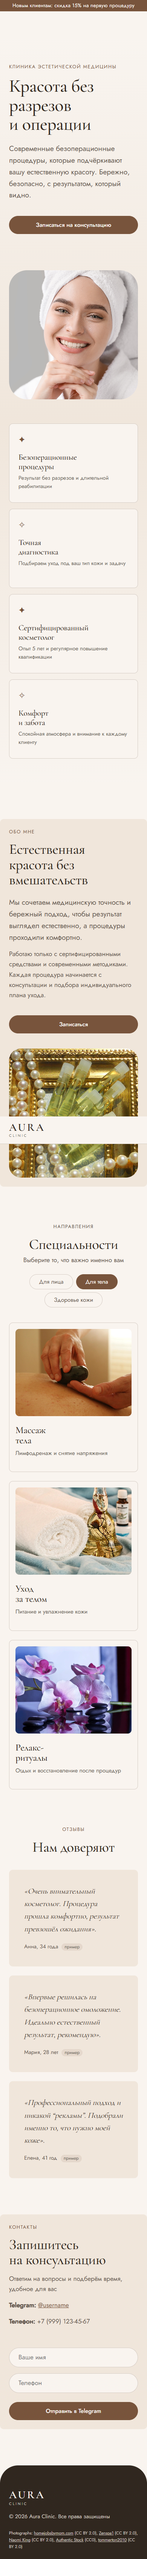
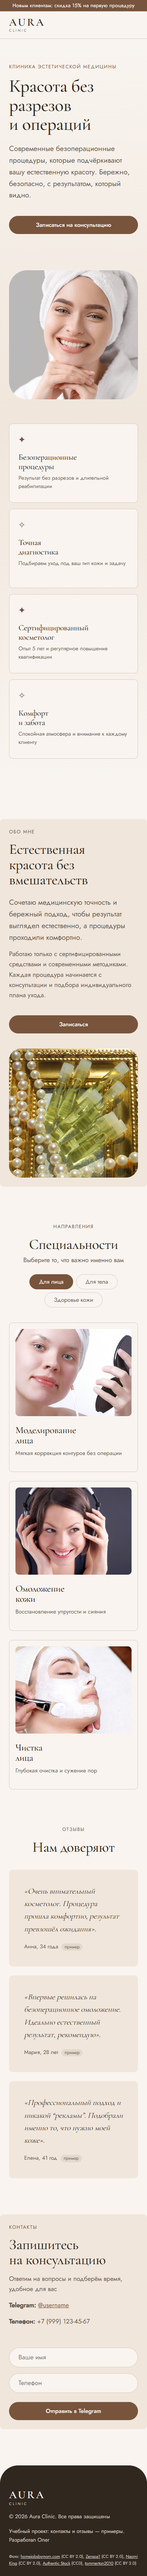
лендинг: запасной вариант копирования заявки, пометка демо и автора, правки текстов

Changed region(s): [[0.0615, 0.0311, 0.9538, 0.8403], [0.0, 0.8714, 1.0, 0.9959], [0.8308, 0.0934, 0.8615, 0.1245]]

diff --git a/index.html b/index.html
@@ -38,7 +38,7 @@
     <div class="container hero-inner">
       <div class="hero-content">
         <p class="eyebrow-note">Клиника эстетической медицины</p>
-        <h1>Красота без разрезов и операции</h1>
+        <h1>Красота без разрезов и операций</h1>
         <p class="lead">Современные безоперационные процедуры, которые подчёркивают вашу естественную красоту. Бережно, безопасно, с результатом, который видно.</p>
         <a href="https://t.me/username" class="btn btn--primary" target="_blank" rel="noopener">Записаться на консультацию</a>
       </div>
@@ -80,7 +80,7 @@
       <div class="about-text">
         <p class="eyebrow-note">Обо мне</p>
         <h2>Естественная красота без вмешательств</h2>
-        <p class="lead">Мы сочетаем медицинскую точность и бережный подход, чтобы результат выглядел естественно, а процедуры проходили комфортно.</p>
+        <p class="lead">Сочетаю медицинскую точность и бережный подход, чтобы результат выглядел естественно, а процедуры проходили комфортно.</p>
         <p>Работаю только с сертифицированными средствами и современными методиками. Каждая процедура начинается с консультации и подбора индивидуального плана ухода.</p>
         <a href="https://t.me/username" class="btn btn--primary" target="_blank" rel="noopener">Записаться</a>
       </div>
@@ -209,7 +209,8 @@
     <div class="container">
       <a href="#" class="logo">AURA<span class="logo-sub">clinic</span></a>
       <p>© 2026 Aura Clinic. Все права защищены</p>
-      <div class="footer-photo-credits" data-credits>Photographs: загрузка…</div>
+      <p>Учебный проект: контакты и отзывы — примеры. Разработал Олег</p>
+      <div class="footer-photo-credits" data-credits>Фото: загрузка…</div>
     </div>
   </footer>
 

diff --git a/script.js b/script.js
@@ -38,7 +38,7 @@ document.addEventListener('DOMContentLoaded', () => {
     e: '<a href="https://www.flickr.com/photos/58842866@N08/5388130101" target="_blank" rel="noopener">tommerton2010</a> (CC BY 2.0)',
   };
   const creditEl = document.querySelector('[data-credits]');
-  if (creditEl) creditEl.innerHTML = 'Photographs: ' + Object.values(credits).join(', ');
+  if (creditEl) creditEl.innerHTML = 'Фото: ' + Object.values(credits).join(', ');
 
   // Tabs: real tablist — arrow keys move focus, click/Enter activates panel
   const tabs = [...document.querySelectorAll('.tab')];
@@ -72,7 +72,10 @@ document.addEventListener('DOMContentLoaded', () => {
     const name = this.querySelector('input[type="text"]').value;
     const phone = this.querySelector('input[type="tel"]').value;
     const text = `Здравствуйте! Хочу записаться на консультацию.\nИмя: ${name}\nТелефон: ${phone}`;
-    navigator.clipboard.writeText(text).catch(() => {}).then(() => {
+    const copied = navigator.clipboard?.writeText
+      ? navigator.clipboard.writeText(text)
+      : Promise.reject();
+    copied.catch(() => window.prompt('Скопируйте текст заявки:', text)).then(() => {
       window.open('https://t.me/username', '_blank');
     });
   });
